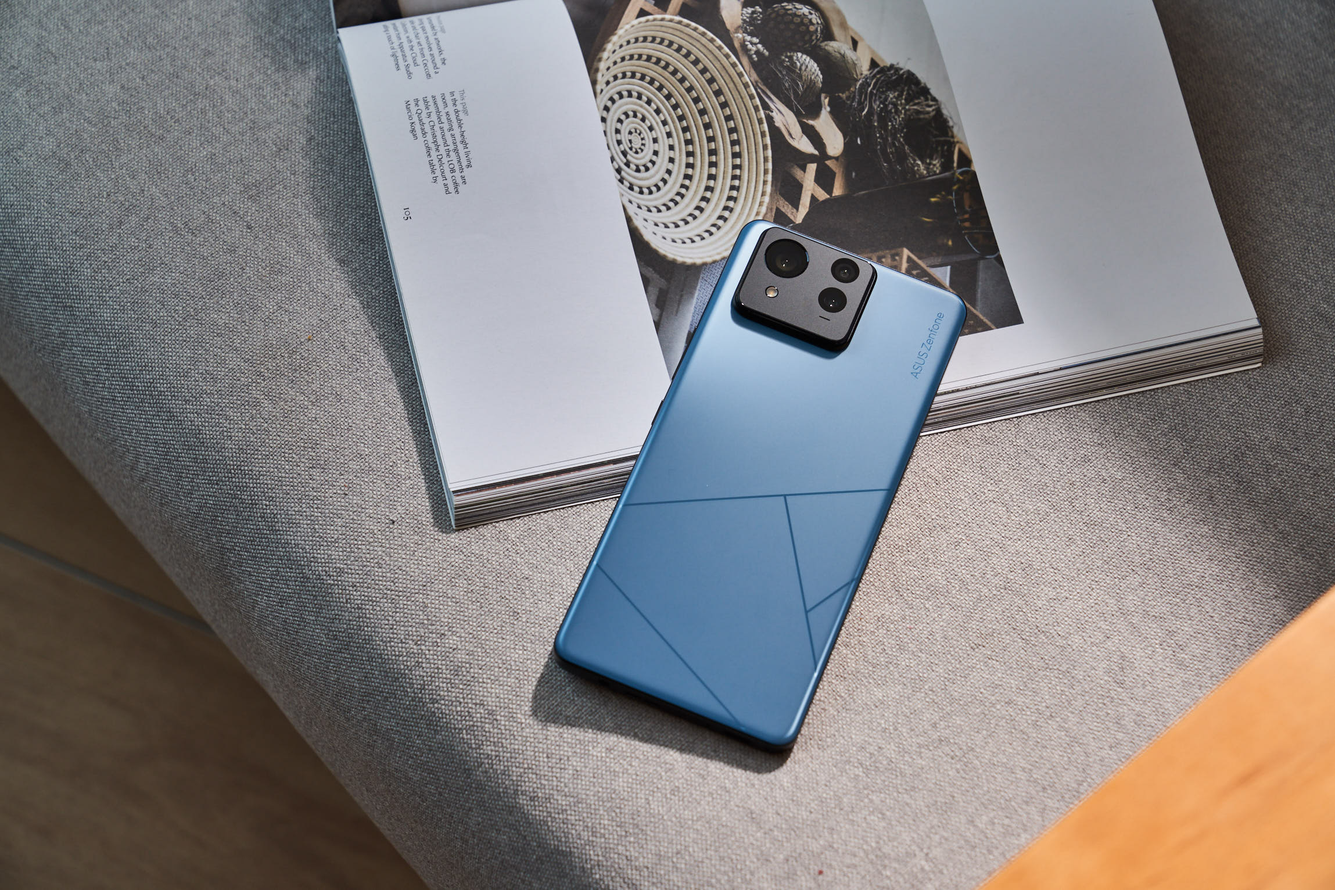
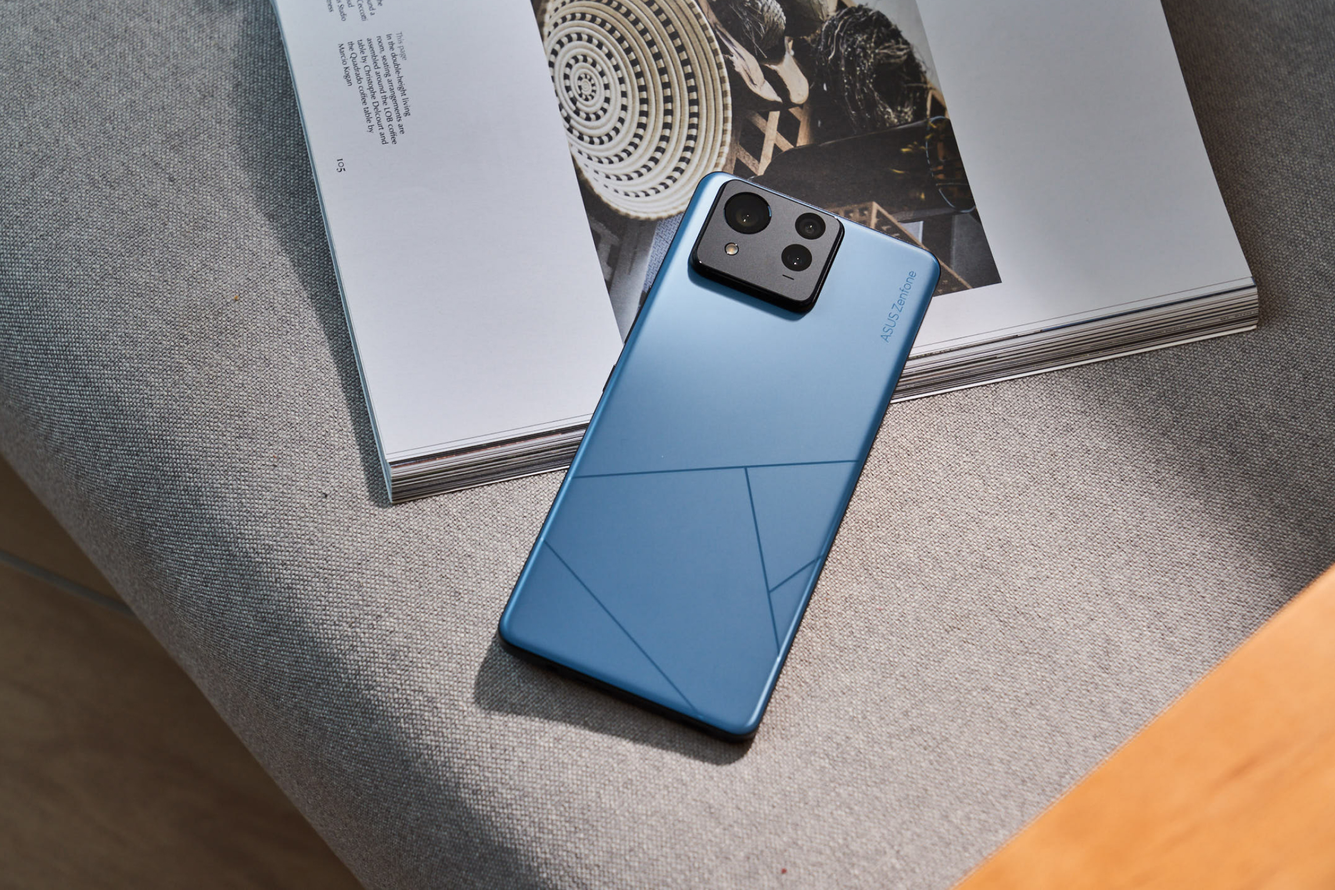
image revise

diff --git a/scss/main.scss b/scss/main.scss
@@ -65,6 +65,7 @@ p {
         }
         @include media-breakpoint-down(md) { 
             height: 90vh;
+            background-position: 20% 75%;
         }
         .kv-corner-group {
             .corner {
@@ -156,7 +157,8 @@ p {
         background-repeat: no-repeat;
         border-radius: 1rem;
         @include media-breakpoint-down(md) { 
-            padding-top: 133%;
+            padding-top: 150%;
+            background-position: center;
         }
     }
     &-nav-link{

diff --git a/css/main.css b/css/main.css
@@ -679,6 +679,7 @@ p {
 @media (max-width: 767.98px) {
   .ta-main-kv-1 {
     height: 90vh;
+    background-position: 20% 75%;
   }
 }
 .ta-main-kv-1 .kv-corner-group .corner {
@@ -775,7 +776,8 @@ p {
 }
 @media (max-width: 767.98px) {
   .ta-zenfone-1 {
-    padding-top: 133%;
+    padding-top: 150%;
+    background-position: center;
   }
 }
 .ta-nav-link:hover {
